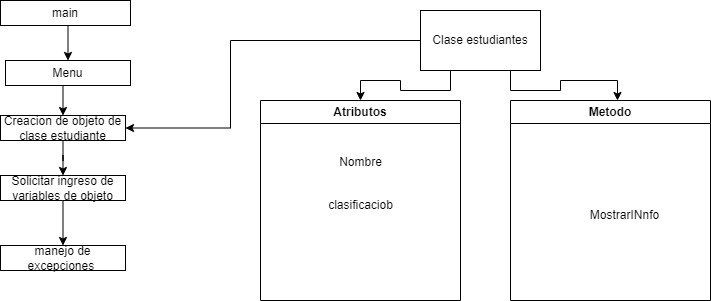
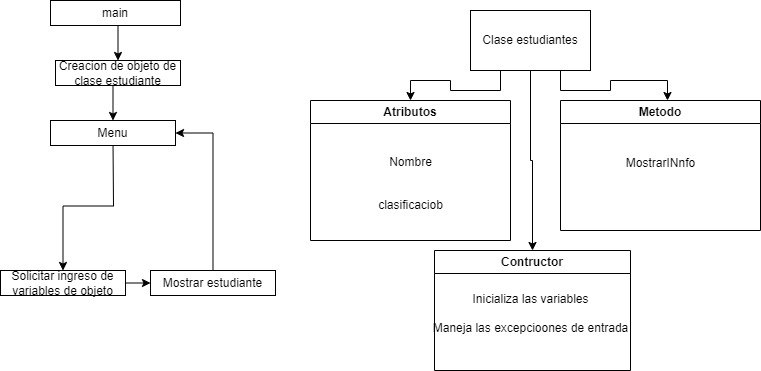
CUARTO commit del EXAMEN y modificacion del REAMDME junto su diagrama

diff --git a/Examen 1/main.cpp b/Examen 1/main.cpp
@@ -1,0 +1,44 @@
+#include <iostream>
+#include <string>
+#include "student.hpp"
+
+using namespace std;
+
+
+
+int main() {
+
+    // Inicializacion de Variables
+    string nombre;
+    float calificacion;
+    bool repetir = true;
+    
+    do
+    {
+            //Puesta en marcha el control de excepciones
+        try {
+
+            // Ingreso de las variables por parte del usuario
+            cout << "Ingrese el nombre del estudiante: ";
+            cin >> nombre;
+
+            cout << "Ingrese la calificación del estudiante: ";
+            cin >> calificacion;
+
+            // Creacion del Objeto estudiante
+            Estudiante estudiante(nombre, calificacion);
+
+            // Mostrar el estudiante
+            estudiante.MostrarInformacion();
+        }
+        catch (const invalid_argument& e) {
+            cerr << "Error: " << e.what() << std::endl;
+        }
+        
+    } while (repetir);
+    
+
+   
+
+    return 0;
+}

diff --git a/Examen 1/README.md b/Examen 1/README.md
@@ -8,4 +8,8 @@ Primero se creara la clase estudiandes, esto incluye su cpp y su header
 
 ### Segundo paso
 
-Creacion del main, con este se hara el menu. El mismo tendra el manejo de excepciones.
+La misma clase tendra un cosntructor que tendra manejo de excepciones y tambien tnedra un destructor de objeto 
+
+### Tercer paso 
+
+Se hara un menu, el cual estara en un loop y integre un objeto el cual se creara solicitando informacion al usuario y ademas imprimira la informacion del objeto.
